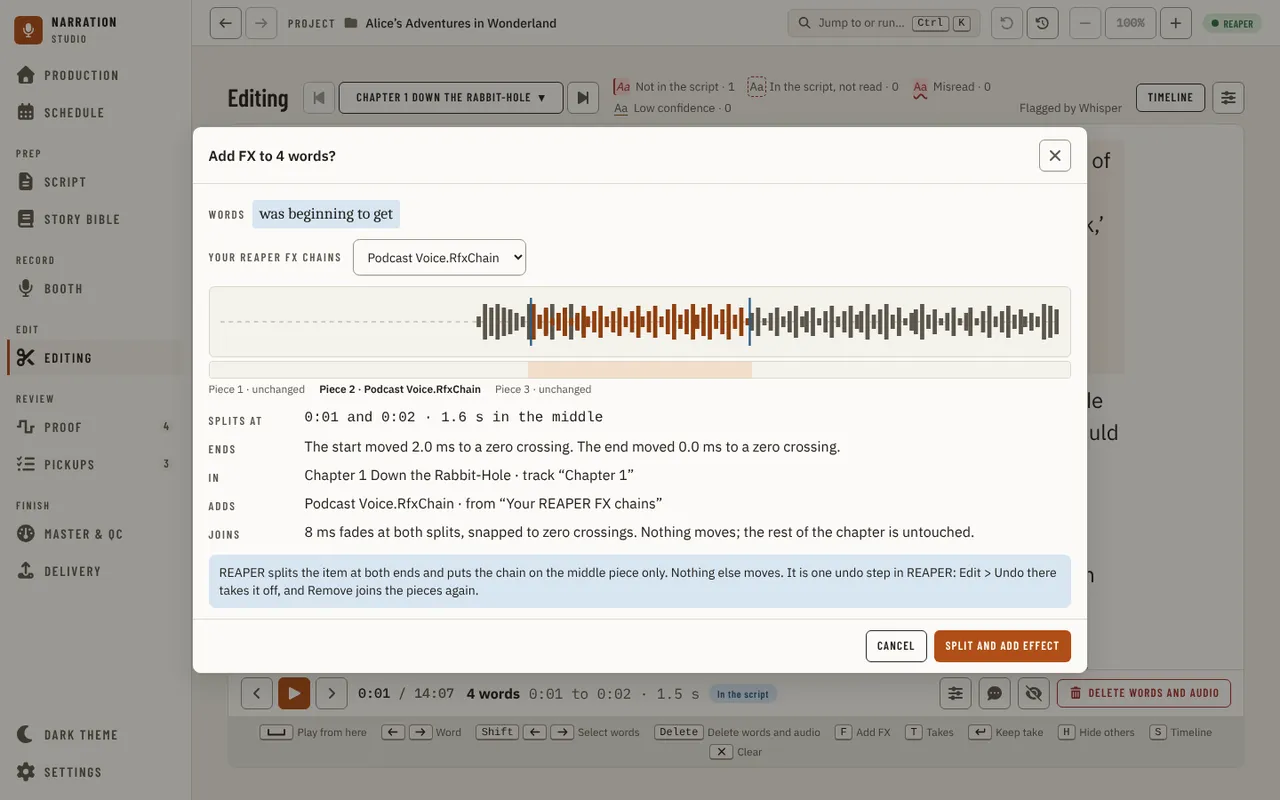
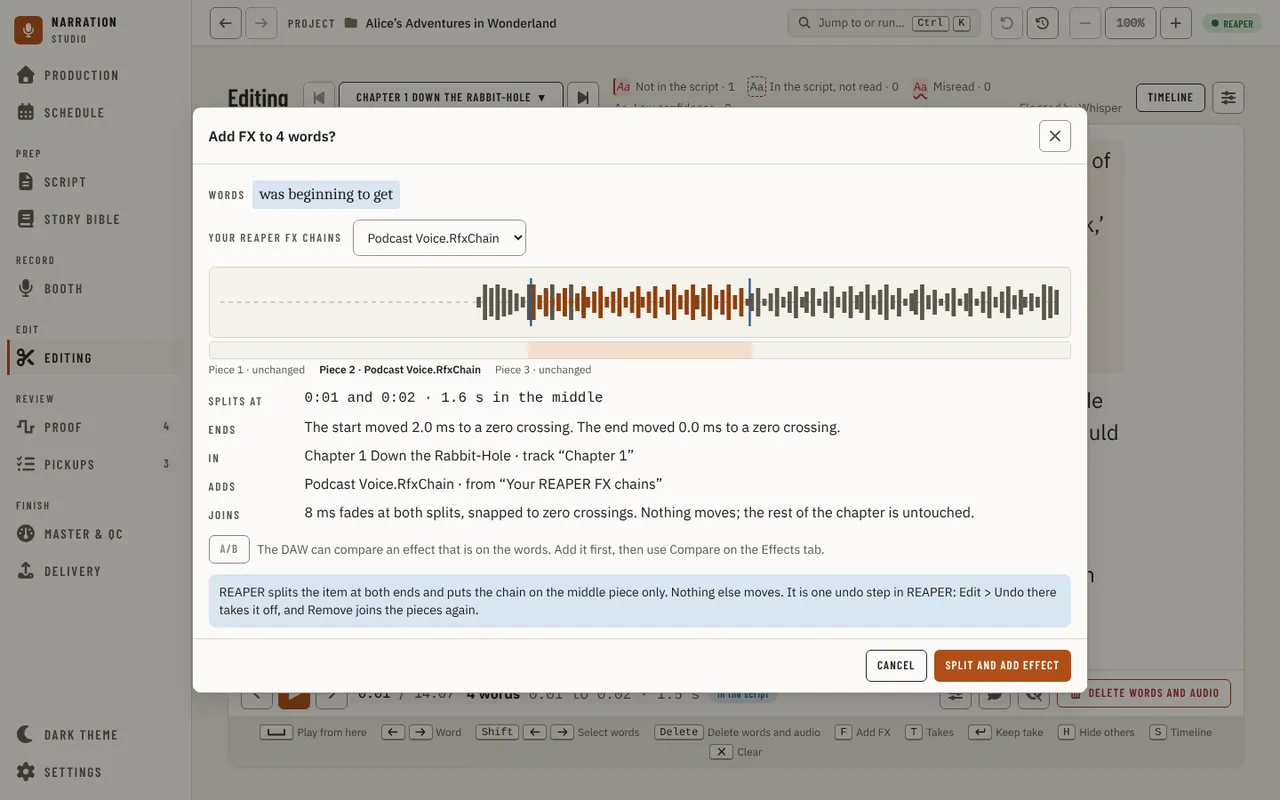
docs(guide): describe the Add FX submenu, A/B and inspector arrows in editing
Claude-Session: https://claude.ai/code/session_018Q2Tiy6XkgmYw9sv82H3cP

Changed region(s): [[0.125, 0.125, 0.875, 0.875]]

diff --git a/apps/ui/tests/visual/drivers/editing.ts b/apps/ui/tests/visual/drivers/editing.ts
@@ -45,10 +45,13 @@ export const editingDrivers: Record<string, Driver> = {
     await selectWords(page);
     await page.locator('[data-k="p-1:2"]').click({ button: 'right' });
     await page.getByRole('menuitem', { name: /^Add FX/ }).click();
-    await page
-      .getByRole('menuitem', { name: /RfxChain$/ })
-      .first()
-      .waitFor();
+    const chain = page.getByRole('menuitem', { name: /RfxChain$/ }).first();
+    await chain.waitFor();
+    // The submenu fades in: wait until it is fully drawn before the page is captured.
+    await chain.evaluate(async (el) => {
+      const popup = el.closest('[role="menu"]');
+      await Promise.all(popup?.getAnimations().map((a) => a.finished) ?? []);
+    });
   },
   'drawer-effects-inspector': async (page) => {
     // Two effects on different words, so the inspector has a neighbour either way; the first is picked.
@@ -58,7 +61,12 @@ export const editingDrivers: Record<string, Driver> = {
     await page.getByRole('button', { name: 'Clean up and effects' }).click();
     await page.locator('#drawer').waitFor();
     await page.getByRole('tab', { name: /^Effects/ }).click();
-    await page.getByRole('button', { name: 'Next effect' }).waitFor();
+    const next = page.getByRole('button', { name: 'Next effect' });
+    await next.waitFor();
+    // The two "Added …" toasts cover the panel; the inspector is scrolled up under its header.
+    const dismiss = page.getByRole('button', { name: 'Dismiss message' });
+    while (await dismiss.count()) await dismiss.first().click();
+    await page.getByRole('region', { name: 'Effect', exact: true }).evaluate((el) => el.scrollIntoView({ block: 'start' }));
   },
   'fx-dialog': async (page) => {
     await openEditing(page, EDITS);

diff --git a/apps/ui/tests/visual/overlays/editing.ts b/apps/ui/tests/visual/overlays/editing.ts
@@ -17,16 +17,7 @@ export const editingCases: OverlayCase[] = [
       await page.locator('[role="menu"]:visible').last().waitFor({ timeout: 2000 });
     },
   },
-  {
-    name: 'Add FX submenu of the word menu',
-    kind: 'context-menu',
-    viewports: ({ height }) => height >= 500,
-    open: async (page) => {
-      await page.locator('[data-k="p-1:1"]').click({ button: 'right' });
-      await page.getByRole('menuitem', { name: /^Add FX/ }).click();
-      await page.locator('[role="menu"]:visible').nth(1).waitFor({ timeout: 2000 });
-    },
-  },
+  fromState('editing', 'word-menu-fx', 'menu'),
   fromState('editing', 'fx-menu', 'menu'),
   fromState('editing', 'fx-dialog'),
   fromState('editing', 'voice-sample-dialog'),

diff --git a/apps/ui/tests/visual/catalog/editing.ts b/apps/ui/tests/visual/catalog/editing.ts
@@ -34,6 +34,8 @@ export const editingStates: StateEntry[] = [
     state: 'word-menu-fx',
     description: 'Editing, the word menu with its Add FX submenu open - the DAW’s FX chains beside the row, Mark as and Remove in the menu',
     ...POPUP_ANCHORED_AT_FIRST_WIDTH,
+    // The pointer rests on the Add FX row, which is what holds its submenu open.
+    pointer: 'keep',
   },
   {
     page: 'editing',

diff --git a/docs/guides/using-the-app/editing.md b/docs/guides/using-the-app/editing.md
@@ -69,7 +69,7 @@ line** (on a line with more than one take) and **Delete**; the bar offers the sa
 audio** in full on a wide window. **Delete**, **Mute** and **Add FX** stay on the bar but are off while the DAW cannot make
 the change (they are Experimental and start switched off in [Settings](settings.md)); a line above the bar then says so
 and why, and the same sentence is in each button's hint. The line's audio shows under it while the cursor is on it. Right-click a word for its
-menu: play the selection, copy, delete or mute the words, add or remove an effect, **Mark as voice sample…**, mark them for a pickup, add a note,
+menu: play the selection, copy, delete or mute the words, add an effect (**Add FX** opens your chains beside it) or remove one, **Mark as** (the kinds open beside it), **Mark as voice sample…**, mark them for a pickup, add a note,
 show or keep the line's takes, and **Split into takes** on a line whose one take reads it twice.
 
 With a screen reader, the script is one read-only text box. Each time the cursor stops, the screen reader says the word it is on
@@ -103,6 +103,16 @@ effect are underlined and end with an effects marker: click it to select the wor
 menu offers **Remove** with the chain's name too, and the drawer's Effects tab lists them.
 
 ![Editing - Add FX on four selected words: the DAW's effect chains](../../images/ui/editing-fx-menu.webp)
+
+Right-click the words and **Add FX** opens the same chains in a submenu beside the menu (click it, press Enter or the right arrow,
+or rest the pointer on it; the left arrow closes it). Choosing one opens the question, not the DAW. When the DAW cannot add an
+effect to these words, **Add FX** is off in the menu and says why under it.
+
+![Editing - the word menu with Add FX open: the DAW's chains beside the menu](../../images/ui/editing-word-menu-fx.webp)
+
+The question has an **A/B** button that plays the words without the effect and then with it. The DAW can only compare an
+effect that is already on the words, so for a chain you have not added yet **A/B** is off and says to add it first; with the chain
+already on the words it plays them in the DAW and stops when the question closes.
 
 The Effects tab shows how much of the chapter effects cover against a cap, 10% unless you change it in the tab's **Cap**
 field (a whole percent from 1 to 100, kept for the project). Over the cap the tab warns, and Add effect asks again
@@ -177,6 +187,13 @@ and one lane per take on one time axis. On a window 1360 px wide or more it is a
 ![Editing - the Clean up and effects panel on Effects: no effects yet, and Add effect waiting for a selection](../../images/ui/editing-drawer-effects.webp)
 
 ![Editing - the Effects tab with a DAW that lists its chains: each has a Favourite button, and the favourites are listed first](../../images/ui/editing-drawer-effects-chains.webp)
+
+Pick an effect in the list and its inspector shows the chain, the words, the time and its settings. The up and down arrows beside
+its name go to the previous and next effect (the first has no previous, the last no next). **Show in the DAW** (the arrow-out
+button under **Compare**) moves the DAW to the effect's first word and says where it went, or is off with the reason when the DAW cannot
+move to a place in the project.
+
+![Editing - the Effects tab with two effects on words: the inspector with its Previous and Next arrows and Show in the DAW](../../images/ui/editing-drawer-effects-inspector.webp)
 
 ![Editing - the Timeline strip under the text: the waveform and takes of the line the cursor is on](../../images/ui/editing-drawer-timeline.webp)
 
